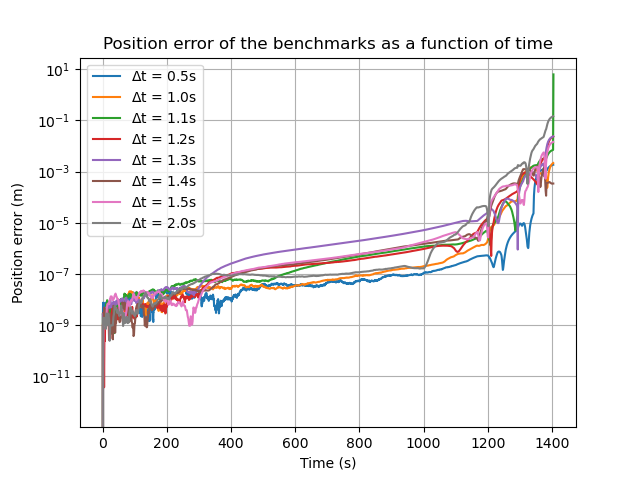
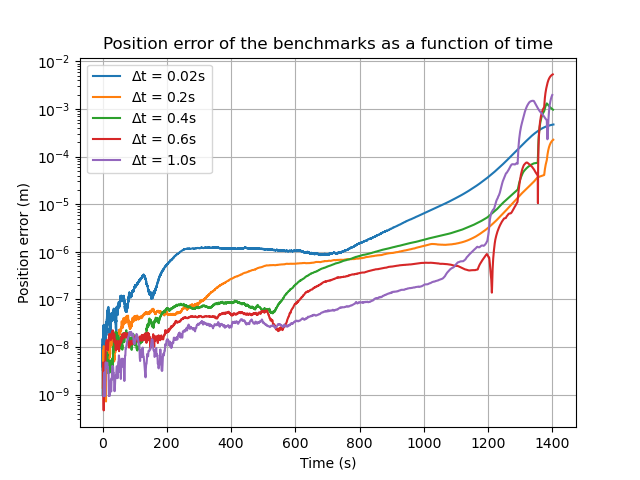
Added zoomed in plot of #computations

diff --git a/ShapeOptimization/CapsuleEntryOutput.py b/ShapeOptimization/CapsuleEntryOutput.py
@@ -243,6 +243,8 @@ if benchmark == True:
     for i in range(benchmark_pos_difference_0_02.shape[0]):
         benchmark_pos_error_0_02.append(Util.get_absolute_distance_from_origin(benchmark_pos_difference_0_02[i, :]))
 
+    benchmark_dependent_variables = np.loadtxt('SimulationOutput/benchmarks/benchmark_1_dependent_variables.dat')
+
     # Actual plots
 
     fig1 = plt.figure()
@@ -275,27 +277,36 @@ if benchmark == True:
     plt.legend()
 
     fig4 = plt.figure()
-    plt.plot(mach_benchmark_1[:,1],altitude_benchmark_1[:,1],label = ('$\Delta$t = 0.5s'))
-    #plt.plot(mach_benchmark_2[:,1],altitude_benchmark_2[:,1],label = ('$\Delta$t = 0.01s'))
-    plt.xlabel('Mach number (-)')
-    plt.ylabel('Altitude (m)')
+    ax4 = fig4.add_subplot(1,1,1)
+    color = 'tab:red'
+    ax4.set_xlabel('Mach number (-)', color=color)
+    ax4.set_ylabel('Altitude (m)')
+    ax4.plot(mach_benchmark_1[:,1],altitude_benchmark_1[:,1],label='Mach number',color=color)
+    ax4.tick_params(axis='x', labelcolor=color)
+
+    axdec = ax4.twiny()
+
+    color = 'tab:blue'
+    axdec.set_xlabel('Norm of the acceleration ($m/s^{2}$)', color=color)
+    axdec.plot(benchmark_dependent_variables[:,3],altitude_benchmark_1[:,1],label='Norm of acceleration',color=color)
+    axdec.tick_params(axis='x', labelcolor=color)
+    fig4.tight_layout()  # otherwise the right y-label is slightly clipped
     plt.grid()
-    plt.title('Altitude vs Mach number')
-    plt.legend()
+    fig4.legend(loc='upper left')
 
     fig5 = plt.figure()
     ax5 = fig5.add_subplot(1,1,1)
-    ax5.plot(benchmark_difference_times_0_02, benchmark_pos_error_0_02, label=('$\Delta$t = 0.02s'))
-    #ax5.plot(benchmark_difference_times_0_1, benchmark_pos_error_0_1, label=('$\Delta$t = 0.1s'))
-    ax5.plot(benchmark_difference_times_0_2, benchmark_pos_error_0_2, label=('$\Delta$t = 0.2s'))
-    ax5.plot(benchmark_difference_times_0_3, benchmark_pos_error_0_3, label=('$\Delta$t = 0.3s'))
-    ax5.plot(benchmark_difference_times_0_4, benchmark_pos_error_0_4, label=('$\Delta$t = 0.4s'))
-    ax5.plot(benchmark_difference_times_0_5, benchmark_pos_error_0_5, label=('$\Delta$t = 0.5s'))
-    ax5.plot(benchmark_difference_times_0_6, benchmark_pos_error_0_6, label=('$\Delta$t = 0.6s'))
-    ax5.plot(benchmark_difference_times_0_7, benchmark_pos_error_0_7, label=('$\Delta$t = 0.7s'))
+    ax5.plot(benchmark_difference_times_0_02[4:-4], benchmark_pos_error_0_02[4:-4], label=('$\Delta$t = 0.02s'))
+    #ax5.plot(benchmark_difference_times_0_1[4:-4], benchmark_pos_error_0_1[4:-4], label=('$\Delta$t = 0.1s'))
+    ax5.plot(benchmark_difference_times_0_2[4:-4], benchmark_pos_error_0_2[4:-4], label=('$\Delta$t = 0.2s'))
+    #ax5.plot(benchmark_difference_times_0_3, benchmark_pos_error_0_3, label=('$\Delta$t = 0.3s'))
+    ax5.plot(benchmark_difference_times_0_4[4:-4], benchmark_pos_error_0_4[4:-4], label=('$\Delta$t = 0.4s'))
+    #ax5.plot(benchmark_difference_times_0_5, benchmark_pos_error_0_5, label=('$\Delta$t = 0.5s'))
+    ax5.plot(benchmark_difference_times_0_6[4:-4], benchmark_pos_error_0_6[4:-4], label=('$\Delta$t = 0.6s'))
+    #ax5.plot(benchmark_difference_times_0_7, benchmark_pos_error_0_7, label=('$\Delta$t = 0.7s'))
     #ax5.plot(benchmark_difference_times_0_8, benchmark_pos_error_0_8, label=('$\Delta$t = 0.8s'))
     #ax5.plot(benchmark_difference_times_0_9, benchmark_pos_error_0_9, label=('$\Delta$t = 0.9s'))
-    #ax5.plot(benchmark_difference_times_1, benchmark_pos_error_1, label=('$\Delta$t = 1.0s'))
+    ax5.plot(benchmark_difference_times_1[4:-4], benchmark_pos_error_1[4:-4], label=('$\Delta$t = 1.0s'))
     #ax5.plot(benchmark_difference_times_1_1, benchmark_pos_error_1_1, label=('$\Delta$t = 1.1s'))
     #ax5.plot(benchmark_difference_times_1_2, benchmark_pos_error_1_2, label=('$\Delta$t = 1.2s'))
     #ax5.plot(benchmark_difference_times_1_3, benchmark_pos_error_1_3, label=('$\Delta$t = 1.3s'))
@@ -314,6 +325,15 @@ if benchmark == True:
     #ax5.set_ylim([0.000001,0.1])
     #ax5.set_xlim([1000, 1408])
     ax5.legend()
+
+
+    fig6 = plt.figure()
+    plt.plot(benchmark_dependent_variables[4:-4,0],benchmark_dependent_variables[4:-4,3],label=('$\Delta$t = 0.01s'))
+    plt.xlabel('Time (s)')
+    plt.ylabel('Acceleration ($m/s^{2}$)')
+    plt.grid()
+    plt.title('Acceleration vs time')
+    plt.legend()
 
 elif shape == True:
     shapefile = np.loadtxt('SimulationOutput/prop_0/int_0/step_size_0/ShapeFile.dat')

diff --git a/ShapeOptimization/CapsuleEntryUtilities.py b/ShapeOptimization/CapsuleEntryUtilities.py
@@ -147,6 +147,7 @@ def get_dependent_variable_save_settings() -> list:
     Currently, the dependent variables saved include:
     - the Mach number
     - the altitude wrt the Earth
+    - Norm of the total acceleration
 
     Parameters
     ----------
@@ -158,7 +159,8 @@ def get_dependent_variable_save_settings() -> list:
         List of dependent variables to save.
     """
     dependent_variables_to_save = [propagation_setup.dependent_variable.mach_number('Capsule', 'Earth'),
-                                   propagation_setup.dependent_variable.altitude('Capsule', 'Earth')]
+                                   propagation_setup.dependent_variable.altitude('Capsule', 'Earth'),
+                                   propagation_setup.dependent_variable.total_acceleration_norm('Capsule')]
     return dependent_variables_to_save
 
 
@@ -753,20 +755,32 @@ def plot_function_evaluations(propagator_index,
     f_e_ABM = [func_evals_raw[20:24, -1]]
     f_e_RK4 = [func_evals_raw[24:, -1]]
 
-    fig = plt.figure()
-    plt.plot(np.reshape(f_e_RK45,(4,1)),max_error_list_0, label=('RK45'))
-    plt.plot(np.reshape(f_e_RK56,(4,1)),max_error_list_1, label=('RK56'))
-    plt.plot(np.reshape(f_e_RK78,(4,1)),max_error_list_2, label=('RK78'))
-    plt.plot(np.reshape(f_e_RKDP78,(4,1)),max_error_list_3, label=('RKDP78'))
-    plt.plot(np.reshape(f_e_BS,(4,1)),max_error_list_4, label=('BS'))
-    plt.plot(np.reshape(f_e_ABM,(4,1)),max_error_list_5, label=('ABM'))
-    plt.plot(np.reshape(f_e_RK4, (6, 1)), max_error_list_6, label=('RK4'))
+    fig10 = plt.figure()
+    plt.plot(np.reshape(f_e_RK45,(4,1)),max_error_list_0, '-x', label=('RK45'))
+    plt.plot(np.reshape(f_e_RK56,(4,1)),max_error_list_1, '-x', label=('RK56'))
+    plt.plot(np.reshape(f_e_RK78,(4,1)), max_error_list_2, '-x', label='RK78')
+    plt.plot(np.reshape(f_e_RKDP78,(4,1)),max_error_list_3, '-x', label=('RKDP78'))
+    plt.plot(np.reshape(f_e_BS,(4,1)),max_error_list_4, '-x', label=('BS'))
+    plt.plot(np.reshape(f_e_ABM,(4,1)),max_error_list_5, '-x', label=('ABM'))
+    plt.plot(np.reshape(f_e_RK4, (6, 1)), max_error_list_6, '-x', label=('RK4'))
     plt.xlabel('Function evaluations (-)')
     plt.ylabel('Maximum absolute position error (m)')
     plt.grid()
     plt.yscale('log')
     plt.xscale('log')
-    plt.title('Propagator = ')
+    plt.title('Propagator = Cowell')
+    plt.legend()
+
+    fig11 = plt.figure()
+    plt.plot(np.reshape(f_e_RK45,(4,1)),max_error_list_0, '-x', label=('RK45'))
+    plt.plot(np.reshape(f_e_RKDP78,(4,1)),max_error_list_3, '-x', label=('RKDP78'))
+    plt.plot(np.reshape(f_e_BS,(4,1)),max_error_list_4, '-x', label=('BS'))
+    plt.xlabel('Function evaluations (-)')
+    plt.ylabel('Maximum absolute position error (m)')
+    plt.grid()
+    plt.yscale('log')
+    plt.xscale('log')
+    plt.title('Propagator = Cowell')
     plt.legend()
     return func_evals_raw
 

diff --git a/ShapeOptimization/CapsuleEntryPropagation.py b/ShapeOptimization/CapsuleEntryPropagation.py
@@ -297,7 +297,7 @@ available_propagators = [propagation_setup.propagator.cowell,
 number_of_propagators = len(available_propagators)
 number_of_integrators = 7
 # For question 2 set the number of propagators to 1:
-#number_of_propagators = 1
+number_of_propagators = 1
 # Make dictionary for the function evaluations
 dict_func_evals = {}
 #dict_func_evals['Variables'] = ['Propagator index |',' Integrator index |',' Tolerance/time step index |',' Number of function evaluations']
@@ -316,6 +316,7 @@ for propagator_index in range(number_of_propagators):
 
     # Loop over different integrators
     for integrator_index in range(number_of_integrators):
+    #for integrator_index in [6]:
         # For RK4, more step sizes are used. NOTE TO STUDENTS, MODIFY THESE AS YOU SEE FIT!
         print("integrator index = ",integrator_index)
         if integrator_index > 5:
@@ -327,6 +328,7 @@ for propagator_index in range(number_of_propagators):
 
         # Loop over all tolerances / step sizes
         for step_size_index in range(number_of_integrator_step_size_settings):
+        #for step_size_index in [1]:
             # Print status
             to_print = 'Current run: \n propagator_index = ' + str(propagator_index) + \
                        '\n integrator_index = ' + str(integrator_index) \
